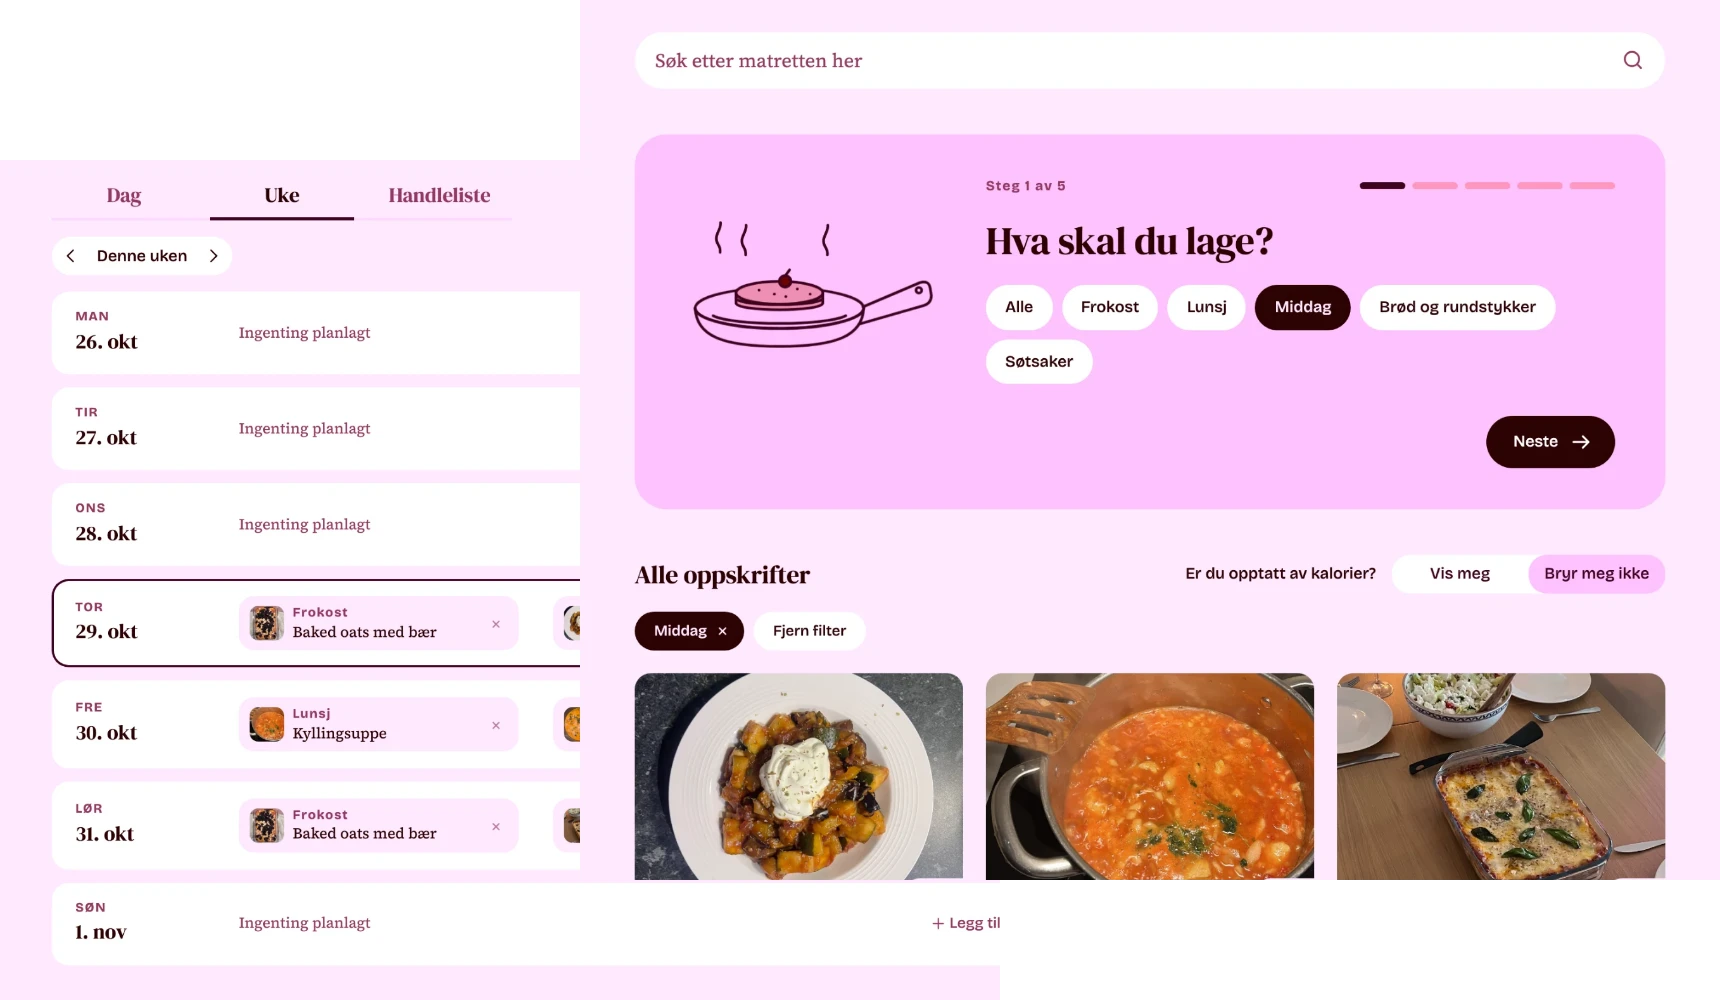
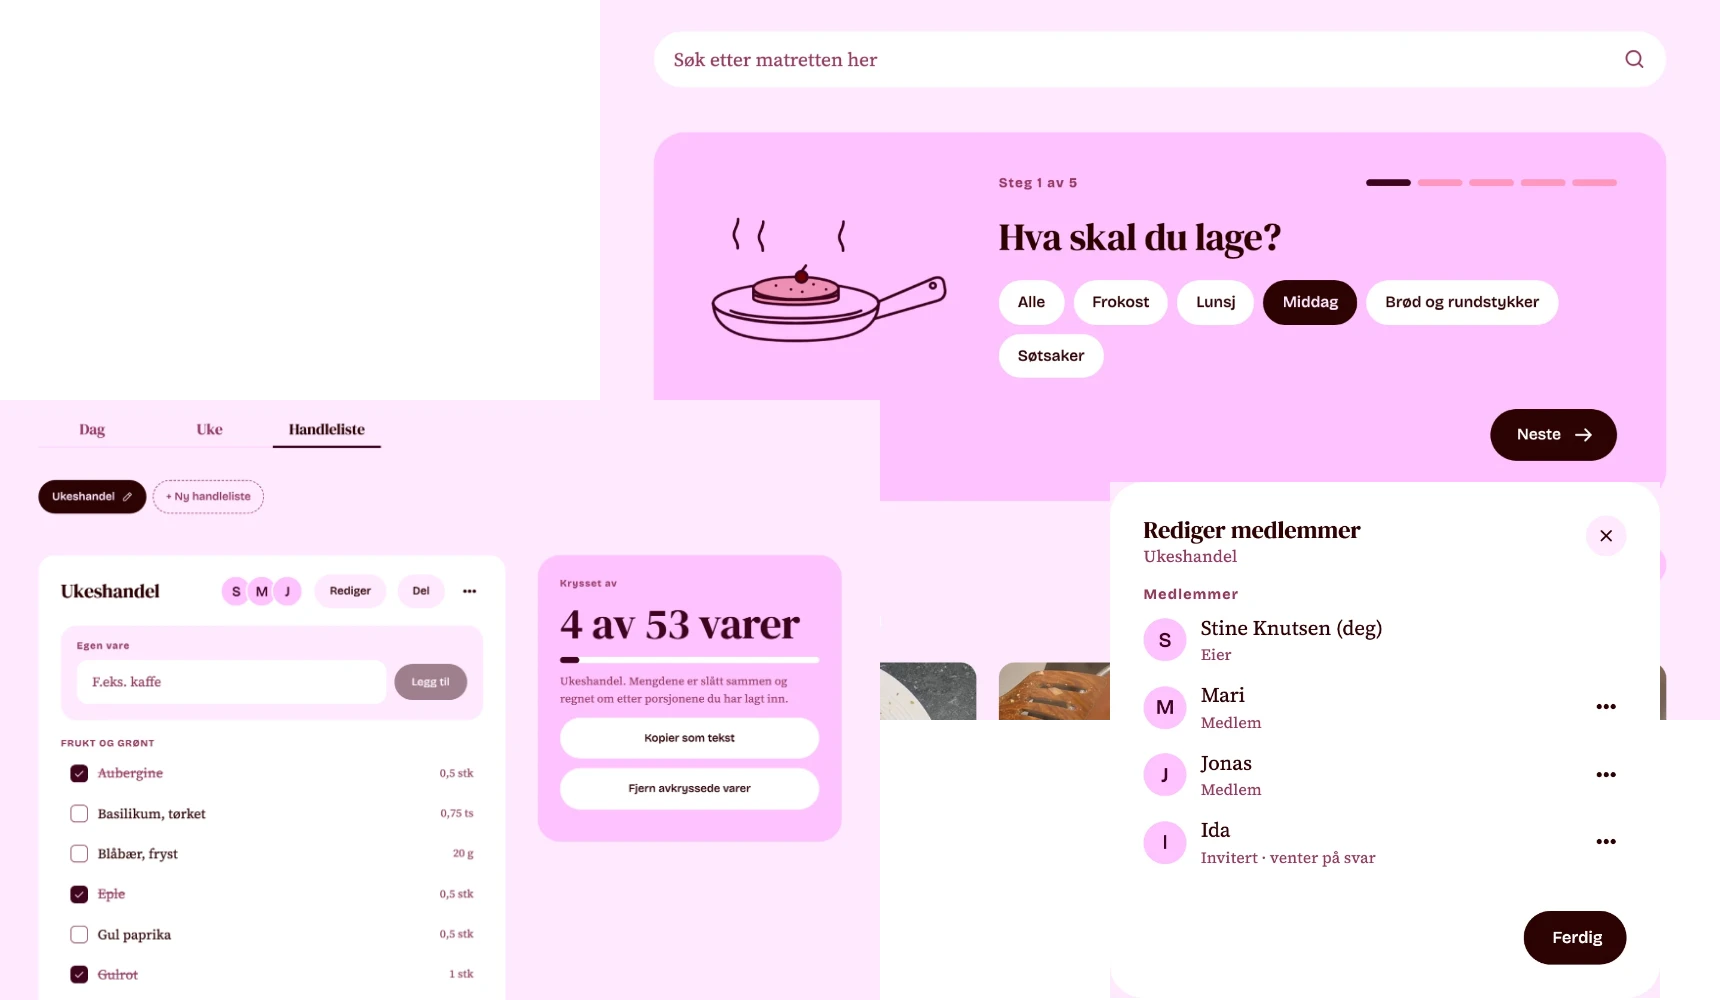
Stines oppskrifter: lighter page, layered thumbnail on lime, Utvikling chapter with UX and testing notes
Bygget is now Utvikling, and Følg vennene dine is Følgere og community. The
Løsning band is the regular soft one again. The thumbnail layers the week list,
the question card and the member dialog on a light lime background.

diff --git a/app/routes/stines-oppskrifter.tsx b/app/routes/stines-oppskrifter.tsx
@@ -12,7 +12,7 @@ const chapters: Chapter[] = [
   { id: "intro", label: "Intro" },
   { id: "bakgrunn", label: "Bakgrunn" },
   { id: "losning", label: "Løsning" },
-  { id: "bygget", label: "Bygget" },
+  { id: "utvikling", label: "Utvikling" },
   { id: "videre", label: "Veien videre" },
 ];
 
@@ -77,7 +77,7 @@ export default function StinesOppskrifterRoute() {
           id="losning"
           number="02"
           title="Løsning"
-          surface="dark"
+          surface="soft"
           lead="Oppskrifter å la seg inspirere av, verktøy for hverdagen, og alt kan deles med vennene dine."
           wide={
             <>
@@ -196,7 +196,7 @@ export default function StinesOppskrifterRoute() {
 
               <FeatureGroup title="Sammen">
                 <Feature
-                  title="Følg vennene dine"
+                  title="Følgere og community"
                   figures={[
                     {
                       src: "/stines-oppskrifter/folg.webp",
@@ -252,9 +252,9 @@ export default function StinesOppskrifterRoute() {
         />
 
         <CaseChapter
-          id="bygget"
+          id="utvikling"
           number="03"
-          title="Bygget"
+          title="Utvikling"
           lead="Jeg har brukt Claude til å lage nettsiden."
         >
           <p>
@@ -268,6 +268,17 @@ export default function StinesOppskrifterRoute() {
             designet og bygge siden ut fra det. Underveis har jeg finjustert
             detaljer som filtrene på forsiden, stegene i Lag oppskrift og
             hvordan siden fungerer på mobil.
+          </p>
+          <p>
+            Prosjektet har ikke gått gjennom noen UX-prosess. Jeg har ikke gjort
+            brukerundersøkelser eller testet prototyper på forhånd, og siden er
+            så langt laget syntetisk sammen med Claude uten at ekte brukere har
+            vært med.
+          </p>
+          <p>
+            Nå er jeg i gang med å teste siden på vennene mine, og det er gøy å
+            få tilbakemelding fra dem. De bruker den på ekte og ser ting jeg og
+            Claude ikke har tenkt på.
           </p>
         </CaseChapter>
 
@@ -289,8 +300,8 @@ export default function StinesOppskrifterRoute() {
             men hvis flere skal bruke den, bør navnet fungere for alle.
           </p>
           <p>
-            Til da bruker vi den selv, og det vi savner underveis blir det neste
-            jeg tar tak i.
+            Til da bruker vi den selv. Tilbakemeldingene fra vennene mine og det
+            vi savner underveis blir det neste jeg tar tak i.
           </p>
         </CaseChapter>
       </div>

diff --git a/app/data/thumbnails.ts b/app/data/thumbnails.ts
@@ -75,6 +75,6 @@ export const thumbnails = {
   oppskrifter: {
     foregroundSrc: "/stines-oppskrifter/thumbnail-fg.webp",
     foregroundSize: { width: 860, height: 500 },
-    backgroundColor: "#23261c",
+    backgroundColor: "#d9f5b8",
   },
 } satisfies Record<string, Thumbnail>;
